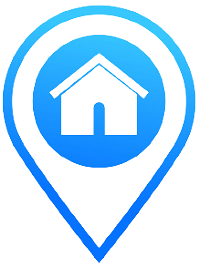
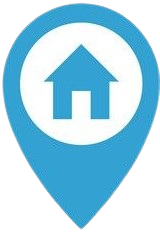
21:17

diff --git a/src/components/Housedeal/KakaoMap.vue b/src/components/Housedeal/KakaoMap.vue
@@ -175,7 +175,7 @@ export default {
       this.addMarker(
         { lat: this.selectedItem.lat, lng: this.selectedItem.lng },
         this.selectedItem,
-        0,
+        3,
       );
 
       if (!hospitalmap) return;
@@ -303,11 +303,13 @@ export default {
       this.range.ne_Lng = bounds.getNorthEast().getLng();
     },
     addMarker(pos, obj, type) {
-      var imageSrc = require(`@/assets/${
-          type === 0 ? "home" : type === 1 ? "shop" : "subway"
-        }.png`), // 마커이미지의 주소입니다
-        imageSize = new kakao.maps.Size(50, 50), // 마커이미지의 크기입니다
-        imageOption = { offset: new kakao.maps.Point(25, 25) }; // 마커이미지의 옵션입니다. 마커의 좌표와 일치시킬 이미지 안에서의 좌표를 설정합니다.
+      var imageSrc = "";
+      if (type === 0) imageSrc = require("@/assets/home.png");
+      if (type === 1) imageSrc = require("@/assets/commercial.png");
+      if (type === 2) imageSrc = require("@/assets/subway.png");
+      if (type === 3) imageSrc = require("@/assets/hospital.png");
+      const imageSize = new kakao.maps.Size(type === 2 ? 34 : 32, 47); // 마커이미지의 크기입니다
+      const imageOption = { offset: new kakao.maps.Point(25, 25) }; // 마커이미지의 옵션입니다. 마커의 좌표와 일치시킬 이미지 안에서의 좌표를 설정합니다.
 
       // 마커의 이미지정보를 가지고 있는 마커이미지를 생성합니다
       var markerImage = new kakao.maps.MarkerImage(
@@ -333,8 +335,8 @@ export default {
       // 커스텀 오버레이를 생성합니다
       var customOverlay = new kakao.maps.CustomOverlay({
         position: marker.getPosition(),
-        yAnchor: 1,
-        xAnchor: 0.425,
+        yAnchor: 1.1,
+        xAnchor: 0.5,
         clickable: true,
       });
 
